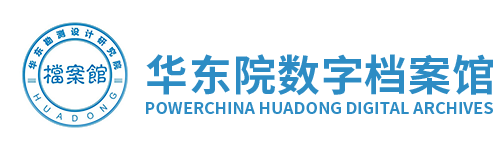
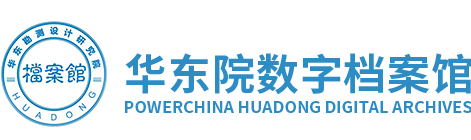
change: 样式调整

Changed region(s): [[0.0, 0.1429, 1.0, 0.9143]]

diff --git a/app/index.html b/app/index.html
@@ -13,51 +13,53 @@
         <div class="m-hd">
             <img class="u-logo" src="./imgs/log.png" />
         </div>
-        <div class="m-bd f-cb">
-            <div class="m-mn f-fl">
-                <div class="g-first">
-                    <div class="f-ib u-hd-btn">
-                        工程图纸
+        <div class="m-bd">
+            <div class="m-con f-cb">
+                <div class="m-mn f-fl">
+                    <div class="g-first">
+                        <div class="f-ib u-hd-btn">
+                            工程图纸
+                        </div>
+                        <div class="f-ib u-hd-btn select">
+                            工程档案
+                        </div>
+                        <div class="f-ib u-hd-btn">
+                            三维档案
+                        </div>
+                        <div class="f-ib u-hd-btn">
+                            公文档案
+                        </div>
+                        <div class="f-ib u-hd-btn">
+                            合同档案
+                        </div>
+                        <div class="f-ib u-hd-btn">
+                            声像档案
+                        </div>
                     </div>
-                    <div class="f-ib u-hd-btn select">
-                        工程档案
-                    </div>
-                    <div class="f-ib u-hd-btn">
-                        三维档案
-                    </div>
-                    <div class="f-ib u-hd-btn">
-                        公文档案
-                    </div>
-                    <div class="f-ib u-hd-btn">
-                        合同档案
-                    </div>
-                    <div class="f-ib u-hd-btn">
-                        声像档案
+                    <div class="g-second">
+                        <div class="f-ib u-hd-btn">
+                            荣誉档案
+                        </div>
+                        <div class="f-ib u-hd-btn">
+                            地形图
+                        </div>
+                        <div class="f-ib u-hd-btn">
+                            标准规范
+                        </div>
+                        <div class="f-ib u-hd-btn">
+                            科技图书
+                        </div>
+                        <div class="f-ib u-hd-btn">
+                            科技文献
+                        </div>
+                        <div class="f-ib u-hd-btn">
+                            竞争情报
+                        </div>
                     </div>
                 </div>
-                <div class="g-second">
-                    <div class="f-ib u-hd-btn">
-                        荣誉档案
-                    </div>
-                    <div class="f-ib u-hd-btn">
-                        地形图
-                    </div>
-                    <div class="f-ib u-hd-btn">
-                        标准规范
-                    </div>
-                    <div class="f-ib u-hd-btn">
-                        科技图书
-                    </div>
-                    <div class="f-ib u-hd-btn">
-                        科技文献
-                    </div>
-                    <div class="f-ib u-hd-btn">
-                        竞争情报
-                    </div>
+                <div class="m-sd">
+                    <img class="archives" src="imgs/archives.png">
                 </div>
-            </div>
-            <div class="m-sd">
-                <img class="archives" src="imgs/archives.png">
             </div>
         </div>
         <div class="g-bd">

diff --git a/app/css/styles.css b/app/css/styles.css
@@ -1,3 +1,4 @@
+@charset "UTF-8";
 /* reset */
 html, body, h1, h2, h3, h4, h5, h6, div, dl, dt, dd, ul, ol, li, p, blockquote, pre, hr, figure, table, caption, th, td, form, fieldset, legend, input, button, textarea, menu {
   margin: 0;
@@ -55,7 +56,7 @@ del, ins, u, s, a, a:hover {
   text-decoration: none; }
 
 body, textarea, input, button, select, keygen, legend {
-  font: 12px/1.14 arial,\5b8b\4f53;
+  font: 12px/1.14 arial,"SourceHanSansCN Regular", "San Francisco", "Microsoft Yahei", "宋体";
   color: #333;
   outline: 0; }
 
@@ -195,19 +196,27 @@ a, a:hover {
   -o-user-select: none;
   user-select: none; }
 
+body {
+  min-width: 960px; }
+
 .g-hd .m-hd {
+  max-width: 960px;
   height: 74px;
-  color: #ffffff; }
+  color: #ffffff;
+  margin: 0 auto; }
   .g-hd .m-hd .u-logo {
     width: 246px;
-    margin-left: 157px; }
+    margin-left: 160px; }
 
 .g-hd .m-bd {
   height: 79px;
   background-color: #027ece;
   color: #ffffff; }
+  .g-hd .m-bd .m-con {
+    max-width: 960px;
+    margin: 0 auto; }
   .g-hd .m-bd .m-mn {
-    margin: 0 0 0 160px;
+    margin-left: 160px;
     font-size: 0; }
     .g-hd .m-bd .m-mn .u-hd-btn {
       font-size: 12px;

diff --git a/app/styles/scss/styles.scss b/app/styles/scss/styles.scss
@@ -1,21 +1,31 @@
 @import './reset.scss';
 @import './function.scss';
 
+body{
+    min-width: 960px;
+}
+
 .g-hd{
     .m-hd{
+        max-width: 960px;
         height: 74px;
         color: #ffffff;
+        margin: 0 auto;
         .u-logo{
             width: 246px;
-            margin-left: 157px;
+            margin-left: 160px;
         }
     }
     .m-bd{
         height: 79px;
         background-color: #027ece;
         color: #ffffff;
+        .m-con{
+            max-width: 960px;
+            margin: 0 auto;
+        }
         .m-mn{
-            margin: 0 0 0 160px;
+            margin-left: 160px;
             font-size:0;
             .u-hd-btn{
                 font-size: 12px;

diff --git a/app/css/reset.css b/app/css/reset.css
@@ -1,3 +1,4 @@
+@charset "UTF-8";
 /* reset */
 html, body, h1, h2, h3, h4, h5, h6, div, dl, dt, dd, ul, ol, li, p, blockquote, pre, hr, figure, table, caption, th, td, form, fieldset, legend, input, button, textarea, menu {
   margin: 0;
@@ -55,7 +56,7 @@ del, ins, u, s, a, a:hover {
   text-decoration: none; }
 
 body, textarea, input, button, select, keygen, legend {
-  font: 12px/1.14 arial,\5b8b\4f53;
+  font: 12px/1.14 arial,"SourceHanSansCN Regular", "San Francisco", "Microsoft Yahei", "宋体";
   color: #333;
   outline: 0; }
 

diff --git a/app/styles/scss/reset.scss b/app/styles/scss/reset.scss
@@ -16,6 +16,6 @@ label,summary{cursor:default;}
 a,button{cursor:pointer;}
 h1,h2,h3,h4,h5,h6,em,strong,b{font-weight:bold;}
 del,ins,u,s,a,a:hover{text-decoration:none;}
-body,textarea,input,button,select,keygen,legend{font:12px/1.14 arial,\5b8b\4f53;color:#333;outline:0;}
+body,textarea,input,button,select,keygen,legend{font:12px/1.14 arial,"SourceHanSansCN Regular", "San Francisco", "Microsoft Yahei", "宋体";color:#333;outline:0;}
 body{background:#fff;}
 a,a:hover{color:#333;}
